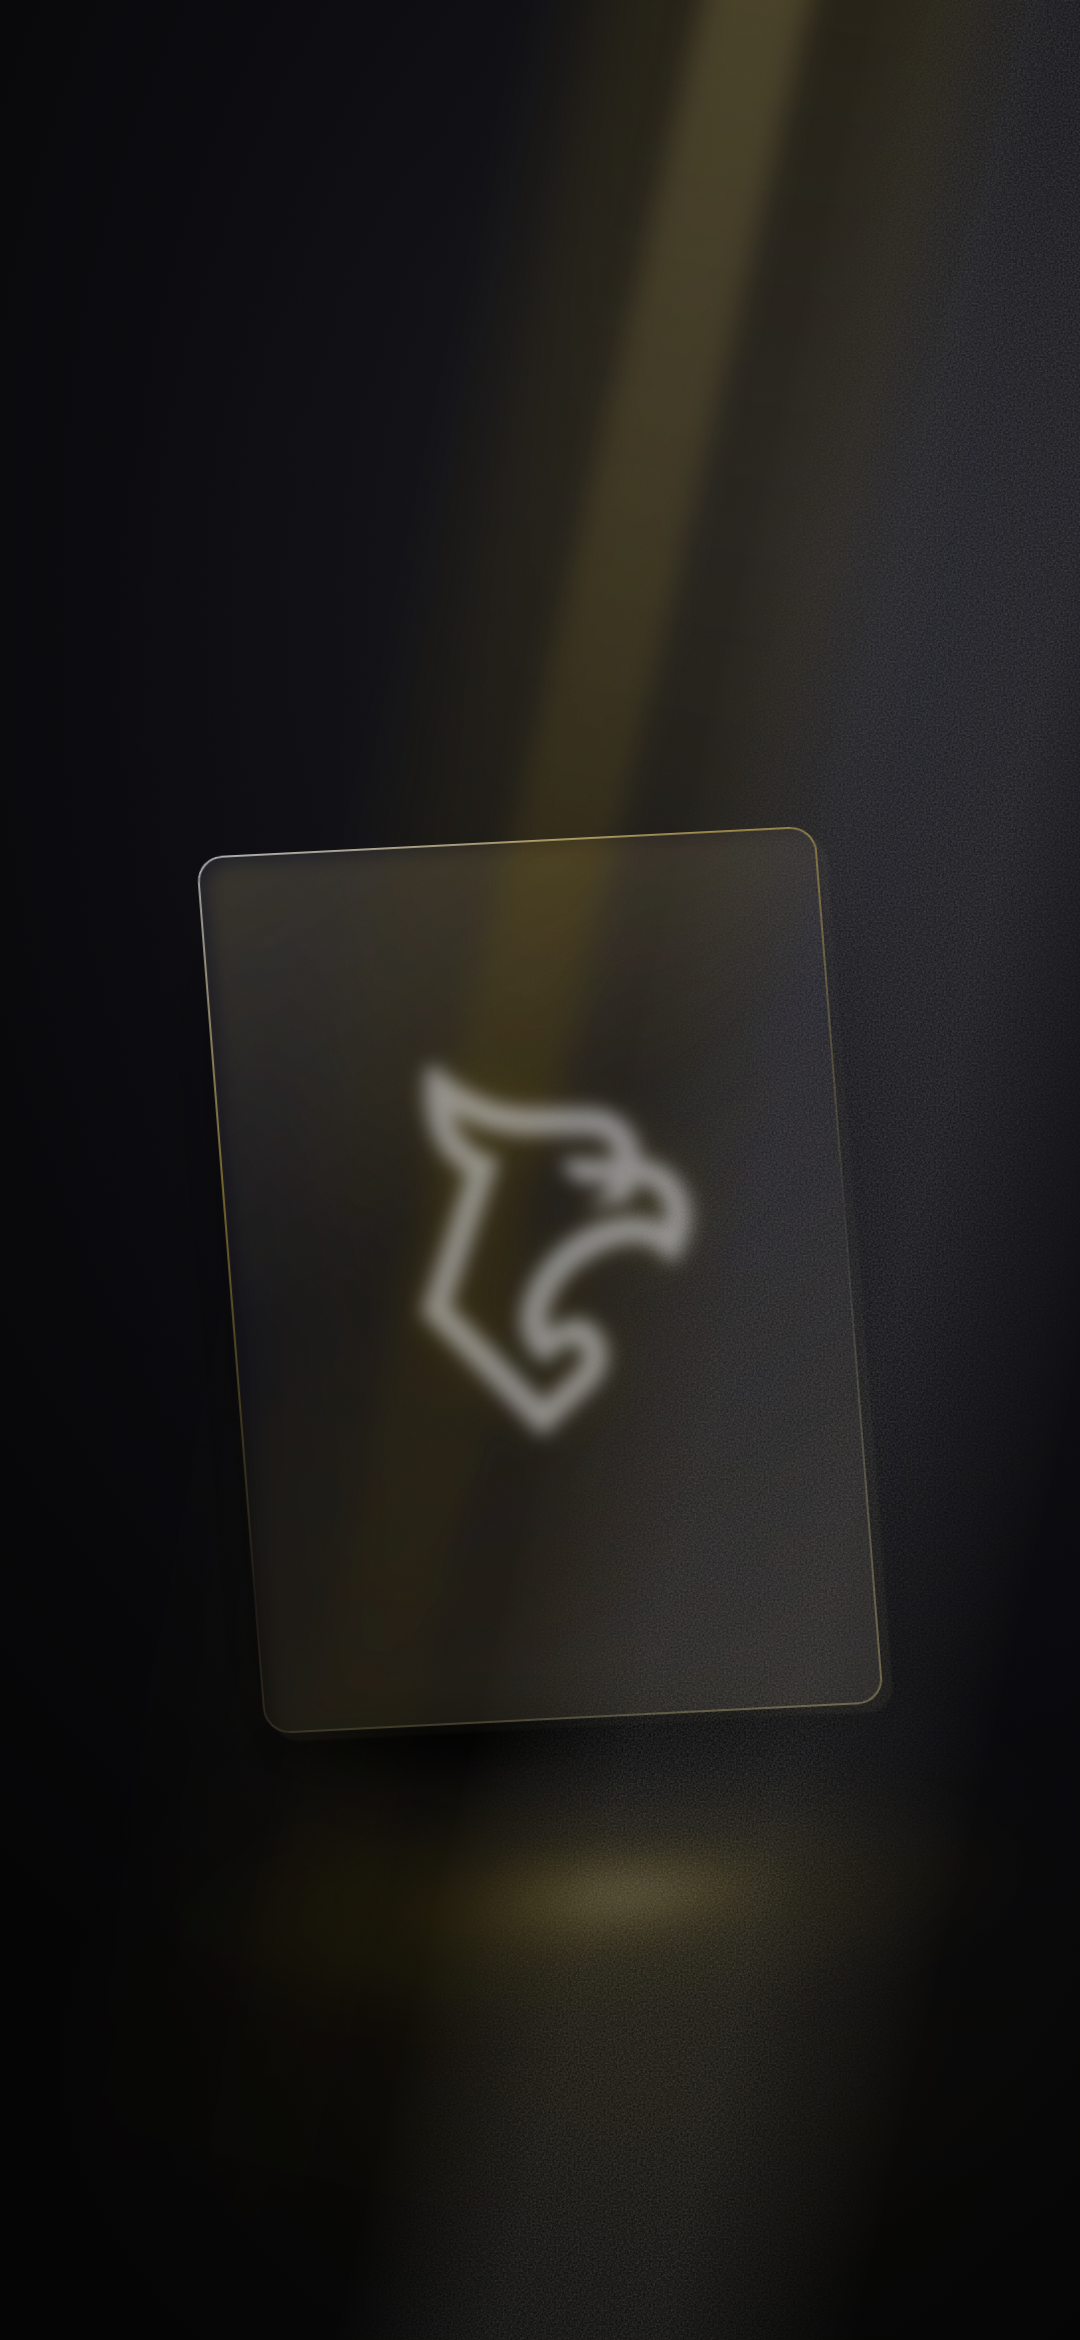
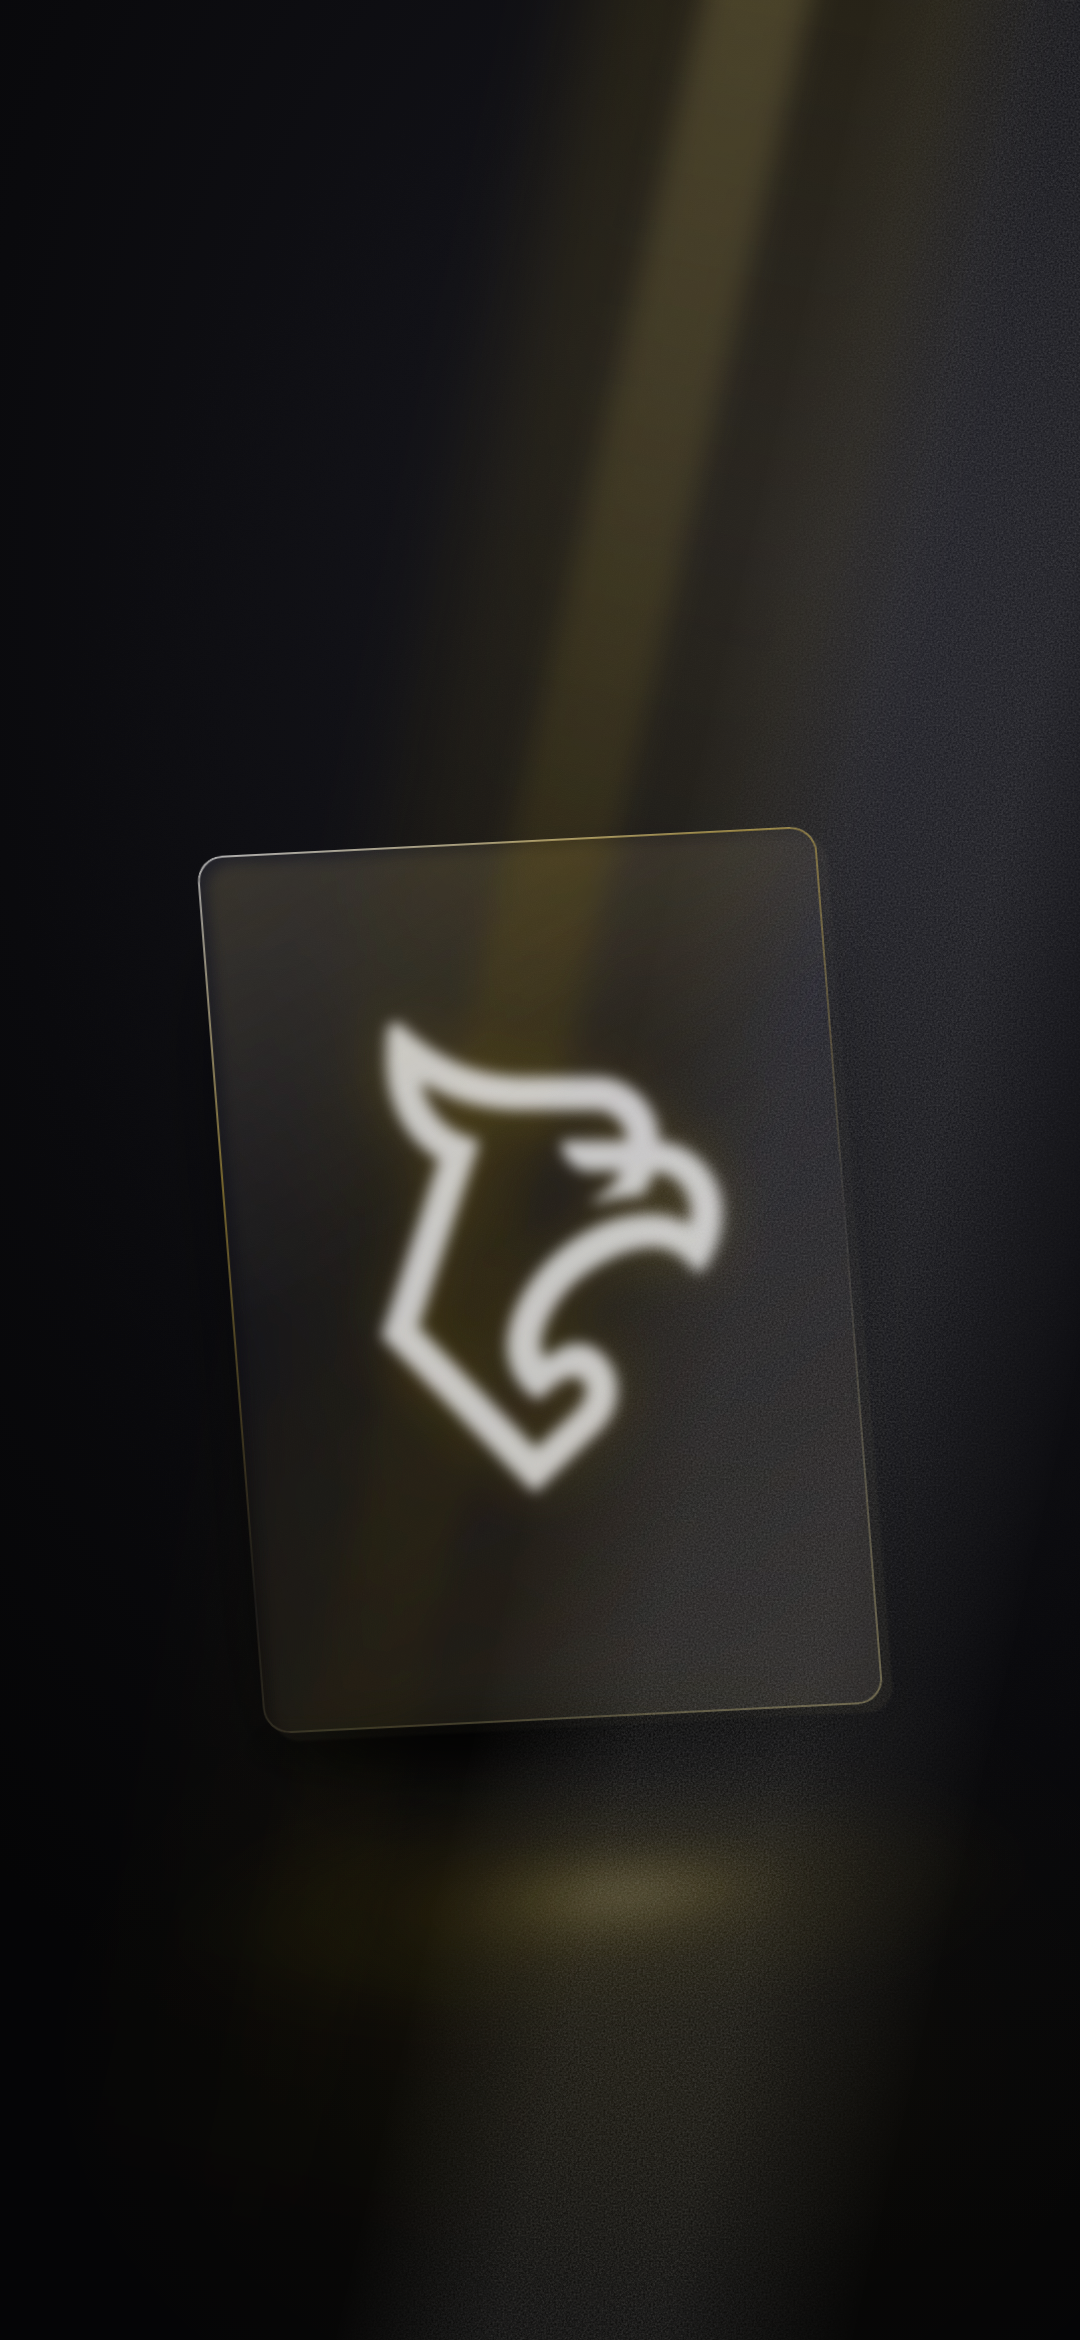
fix(wallpaper): m2 — nagtatago ang mark, tama ang konsepto, mali ang dosis
"Pati ung logo tinago na" (Neil). Tama sya. Sinadyang ilagay sa likod ng
salamin ang mark para makita mo syang lumalabo, kasi yun lang ang
nagpapatunay na transparent talaga ang pane. Pangatwiran yun ng gumagawa,
hindi karanasan ng tumitingin: kapag hindi mabasa ng may-ari ang sarili
nyang logo, talo ang konsepto.

LINE ART ANG MARK, HINDI SOLIDONG HUGIS, at yun ang teknikal na dahilan.
Sa 300px na lapad, mga 14px lang ang stroke, tapos 9px na blur ang nakapatong.
Muntik nang magsara ang mga linya at ang counter, kaya hindi na sya griffin.

Kaya LAKI ang lunas, hindi liwanag: 380px, mga 18px na ang stroke at kaya
na nyang tumawid sa salamin nang buo ang hugis. Sinundan ng opacity 0.52 ->
0.80 at blur 9 -> 7. Lumalambot pa rin ang nasa likod, at yun lang naman ang
kailangan ng salamin. Lagpas mga 8px ay hindi na sya glass, frosting na, at
nagtatago ang frosting.

Ang panuntunan: kapag kailangang makaligtas ang line art sa isang blur,
palapadin ang stroke bago mo isipin ang liwanag. Ang pinaliwanag na saradong
counter ay mas maliwanag na mantsa lang.

Executor: main-loop

Changed region(s): [[0.3361, 0.4368, 0.6722, 0.6551]]

diff --git a/assets/wallpapers/wallpaper-noir-m2-prism.html b/assets/wallpapers/wallpaper-noir-m2-prism.html
@@ -90,19 +90,33 @@
   }
 
   /* ── THE MARK, BEHIND THE GLASS ──────────────────────────────────────
-     The first cut pre-blurred this AND let the pane blur it again. Two
-     stages of softening turned the mark into a smudge — recognisable as
-     "something pale" and not as the griffin, which loses the whole point.
-     The pane alone does the blurring now, and the mark is carried
-     brighter to survive it. The rule this taught: when an object is meant
-     to be read THROUGH a material, the material is the only thing allowed
-     to degrade it. ── */
+     Two corrections, in order, both from Neil looking at the render.
+
+     FIRST: the original cut pre-blurred this AND let the pane blur it
+     again. Two stages of softening turned the mark into a smudge. Rule:
+     when an object is meant to be read THROUGH a material, the material is
+     the only thing allowed to degrade it.
+
+     SECOND (and the real one): even with one stage it was still too far
+     gone — "pati ung logo tinago na". The concept was sound and the DOSE
+     was wrong, which is a different failure and needs a different fix.
+
+     Why this mark suffers from blur more than almost anything would: it is
+     LINE ART, not a solid shape. At 300px wide its strokes are roughly
+     14px, and a 9px blur very nearly closes them — the counters fill in
+     and the griffin stops being a griffin. So the fix is mostly SIZE, not
+     opacity: at 380px the strokes run ~18px and survive the glass with
+     their shape intact. Opacity and a small blur reduction finish it.
+
+     The general rule worth keeping: when line art has to survive a blur,
+     widen the stroke before you brighten it. Brightening a closed counter
+     just gives you a brighter blob. ── */
   .griffin-back {
     position: absolute; z-index: 4; pointer-events: none;
-    left: 556px; top: 1250px; transform: translate(-50%, -50%);
-    width: 300px; height: auto;
-    opacity: 0.52;
-    filter: drop-shadow(0 0 26px rgba(255,214,90,0.18));
+    left: 552px; top: 1256px; transform: translate(-50%, -50%);
+    width: 380px; height: auto;
+    opacity: 0.80;
+    filter: drop-shadow(0 0 30px rgba(255,214,90,0.20));
   }
 
   /* ── THE PANE ────────────────────────────────────────────────────────
@@ -122,8 +136,11 @@
         rgba(255,255,255,0.080) 0%, rgba(255,255,255,0.014) 40%,
         rgba(255,222,110,0.028) 72%, rgba(255,255,255,0.046) 100%),
       rgba(10,10,13,0.14);
-    backdrop-filter: blur(9px) saturate(160%) brightness(1.10);
-    -webkit-backdrop-filter: blur(9px) saturate(160%) brightness(1.10);
+    /* 13 -> 9 -> 7. The pane still visibly softens what is behind it, which
+       is all the glass needs to do; past about 8px it stops reading as
+       glass and starts reading as frosting, and frosting hides things. */
+    backdrop-filter: blur(7px) saturate(160%) brightness(1.10);
+    -webkit-backdrop-filter: blur(7px) saturate(160%) brightness(1.10);
     box-shadow:
       inset 0 1px 0 rgba(255,255,255,0.16),
       0 66px 120px -46px rgba(0,0,0,0.92);
